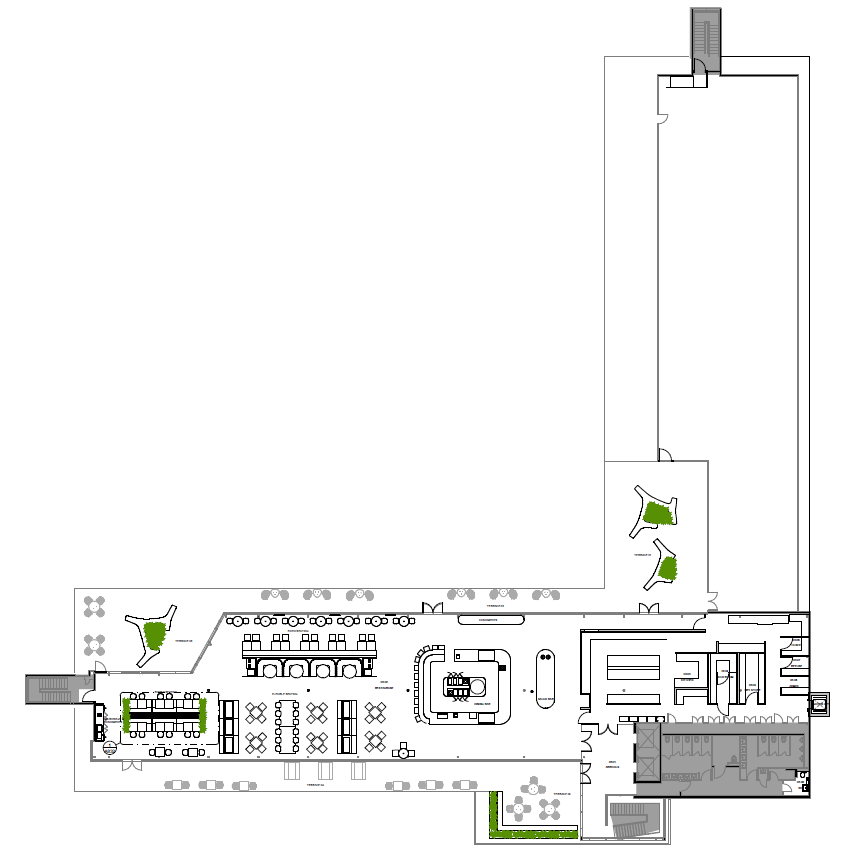
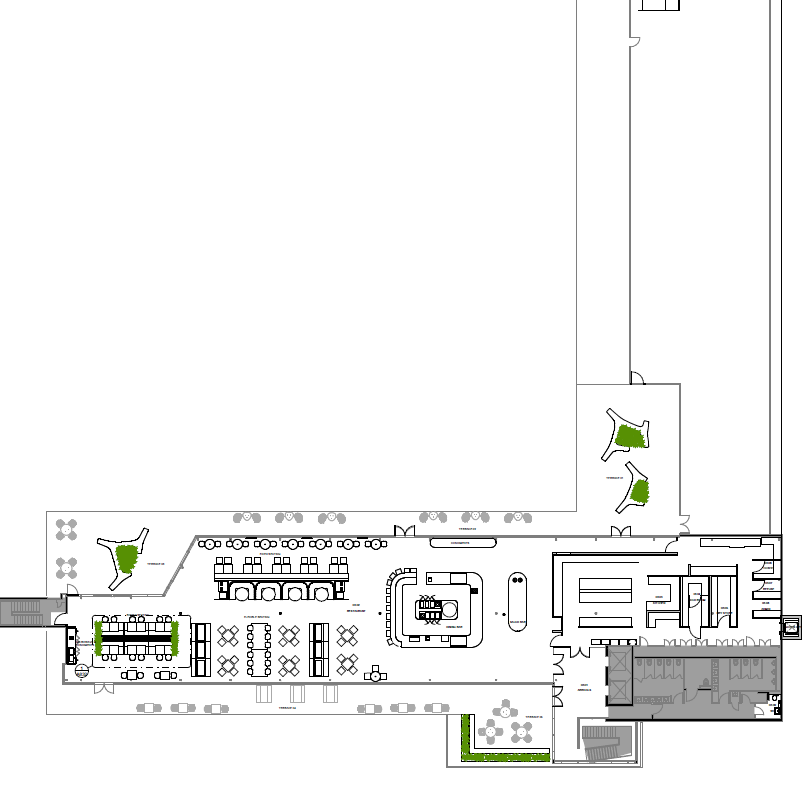
Add layer to make img less obvious and modify the zone name style

Changed region(s): [[0.0, 0.0, 1.0, 0.9975], [0.7481, 0.1247, 0.7793, 0.1559]]

diff --git a/src/components/InteractiveGrid.js b/src/components/InteractiveGrid.js
@@ -38,6 +38,9 @@ const InteractiveGrid = ({
     // Create a group for the image
     const imageGroup = svg.append('g');
 
+    // Create a group for the overlay layer
+    const overlayGroup = svg.append('g');
+
     const backgroundImageUrl = () => {
       switch (selectedOption) {
         case 'Ground Floor':
@@ -61,6 +64,19 @@ const InteractiveGrid = ({
       .attr('width', width)
       .attr('height', height)
       .attr('pointer-events', 'none');
+    // Reorder the groups so that the overlay group is between the image group and the grid group
+    imageGroup.raise(); // Bring the image group to the top
+    overlayGroup.raise(); // Bring the overlay group to the top (above the image group)
+
+    // Add a semi-transparent white rectangle to the overlay group
+    overlayGroup
+      .append('rect')
+      .attr('x', 0)
+      .attr('y', 0)
+      .attr('width', width)
+      .attr('height', height)
+      .attr('fill', 'white')
+      .attr('opacity', 0.5);
 
     // Create a group for the grid lines
     const gridGroup = svg.append('g');
@@ -124,7 +140,7 @@ const InteractiveGrid = ({
               .attr('y', yScale(cell.y))
               .attr('width', xScale(1) - xScale(0))
               .attr('height', yScale(1) - yScale(0))
-              .attr('fill', 'yellow')
+              .attr('fill', '#CBC568')
               .attr('opacity', 0.5);
           }
 
@@ -138,10 +154,10 @@ const InteractiveGrid = ({
           .append('rect')
           .attr('class', 'zone-name-tag-bg')
           .attr('x', xScale(firstCellInAssignment.x) + xScale(1) + 2 - 2) // Adjust the position as needed
-          .attr('y', yScale(firstCellInAssignment.y) + 2) // Adjust the position as needed
+          .attr('y', yScale(firstCellInAssignment.y) - 20) // Adjust the position as needed
           .attr('width', zoneName.length * 6 * 2) // Adjust the width based on the length of the zone name
-          .attr('height', 16) // Adjust the height as needed
-          .attr('fill', 'red')
+          .attr('height', 25) // Adjust the height as needed
+          .attr('fill', '#DCDCDC')
           .attr('opacity', 0.8);
 
         // Add the zone name tag
@@ -149,10 +165,11 @@ const InteractiveGrid = ({
           .append('text')
           .attr('class', 'zone-name-tag')
           .attr('x', xScale(firstCellInAssignment.x) + xScale(1) + 2) // Adjust the position as needed
-          .attr('y', yScale(firstCellInAssignment.y) + 12) // Adjust the position as needed
-          .attr('font-size', '15px')
+          .attr('y', yScale(firstCellInAssignment.y) - 2) // Adjust the position as needed
+          .attr('font-size', '24px')
           .attr('font-weight', 'bold')
           .attr('fill', 'black')
+          .attr('opacity', 0.8)
           .text(zoneName);
       });
     };
@@ -180,7 +197,10 @@ const InteractiveGrid = ({
         );
 
         // Check if the current time is 13:26:26
-        if (currentData.length !== 0 && currentData[0].localtime === 1568121986000){
+        if (
+          currentData.length !== 0 &&
+          currentData[0].localtime === 1568121986000
+        ) {
           onDataPointsForTime(currentData, assignments);
         }
 
@@ -188,9 +208,46 @@ const InteractiveGrid = ({
         currentData.forEach((dataPoint) => {
           const x = dataPoint.projected_norm_x;
           const y = dataPoint.projected_norm_y;
-          const color = deviceColors[dataPoint.ClientMacAddr] || (dataPoint['Staff ID'] !== 'nan' ? 'orange' :'blue');
-          const size = deviceColors[dataPoint.ClientMacAddr] ? 9 : 5;
-          const alpha = deviceColors[dataPoint.ClientMacAddr] || (dataPoint['Staff ID'] !== 'nan' ? 1 : 0.5);
+          const isInDeviceColors = deviceColors[dataPoint.ClientMacAddr];
+
+          // Selected fixed device but the state has not occurred yet
+          const isFixedNormal =
+            isInDeviceColors && dataPoint.localtime < 1568121986000;
+          // Selected fixed device and the state has occurred
+          const isFixedWithState =
+            isInDeviceColors && dataPoint.localtime >= 1568121986000;
+          console.log(isFixedWithState);
+          // is staff but not specifically for this device
+          const isStaff = dataPoint['Staff ID'] !== 'nan';
+
+          let color, size, alpha, strokeWidth, stroke;
+
+          if (isFixedNormal) {
+            color = '#0096FF';
+            size = 8;
+            alpha = 1;
+            strokeWidth = 3;
+            stroke = 'black';
+          } else if (isFixedWithState) {
+            color = 'red';
+            size = 10;
+            alpha = 1;
+            strokeWidth = 2;
+            stroke = 'black';
+          } else if (isStaff) {
+            color = 'orange';
+            size = 7;
+            alpha = 1;
+            strokeWidth = 0;
+            stroke = 'transparent';
+          } else {
+            // Default case
+            color = 'black';
+            size = 5;
+            alpha = 0.5;
+            strokeWidth = 0;
+            stroke = 'transparent';
+          }
 
           // Plot the data point
           rectGroup
@@ -200,9 +257,11 @@ const InteractiveGrid = ({
             .attr('r', size)
             .attr('fill', color)
             .attr('opacity', alpha)
-            .attr('pointer-events', 'none');
-          
-            // Update the timer display
+            .attr('pointer-events', 'none')
+            .style('stroke', stroke)
+            .style('stroke-width', strokeWidth);
+
+          // Update the timer display
           const timerDisplay = document.getElementById('timer');
           const date = new Date(dataPoint.localtime);
           const londonTimeOptions = {
@@ -214,7 +273,7 @@ const InteractiveGrid = ({
             minute: '2-digit',
             second: '2-digit',
           };
-          const londonTime = date.toLocaleString("en-GB", londonTimeOptions);
+          const londonTime = date.toLocaleString('en-GB', londonTimeOptions);
           const fractionalSeconds = date.getMilliseconds();
 
           timerDisplay.textContent = `${londonTime}.${
@@ -273,7 +332,7 @@ const InteractiveGrid = ({
           .attr('y', yScale(y))
           .attr('width', xScale(1) - xScale(0))
           .attr('height', yScale(1) - yScale(0))
-          .attr('fill', 'yellow')
+          .attr('fill', '#CBC568')
           .attr('opacity', 0.5);
       }
       setSelectedCells((prevSelectedCells) => updatedSelectedCells);
@@ -282,7 +341,6 @@ const InteractiveGrid = ({
 
   return (
     <div className="interactive-grid">
-      
       <button onClick={() => setStartPlotting(!startPlotting)}>
         {startPlotting ? 'Stop' : 'Start'}
       </button>

diff --git a/src/components/Header.js b/src/components/Header.js
@@ -18,7 +18,7 @@ const Header = ({ assignmentBtn }) => {
     <AppBar position="static">
       <Toolbar>
         <Typography variant="h6" component="div" sx={{ flexGrow: 1 }}>
-          Kiana Workflow Management
+          Kiana Security Management
         </Typography>
         <CreateAssignment assignmentBtn={assignmentBtn}/>
         <IconButton color="inherit">
